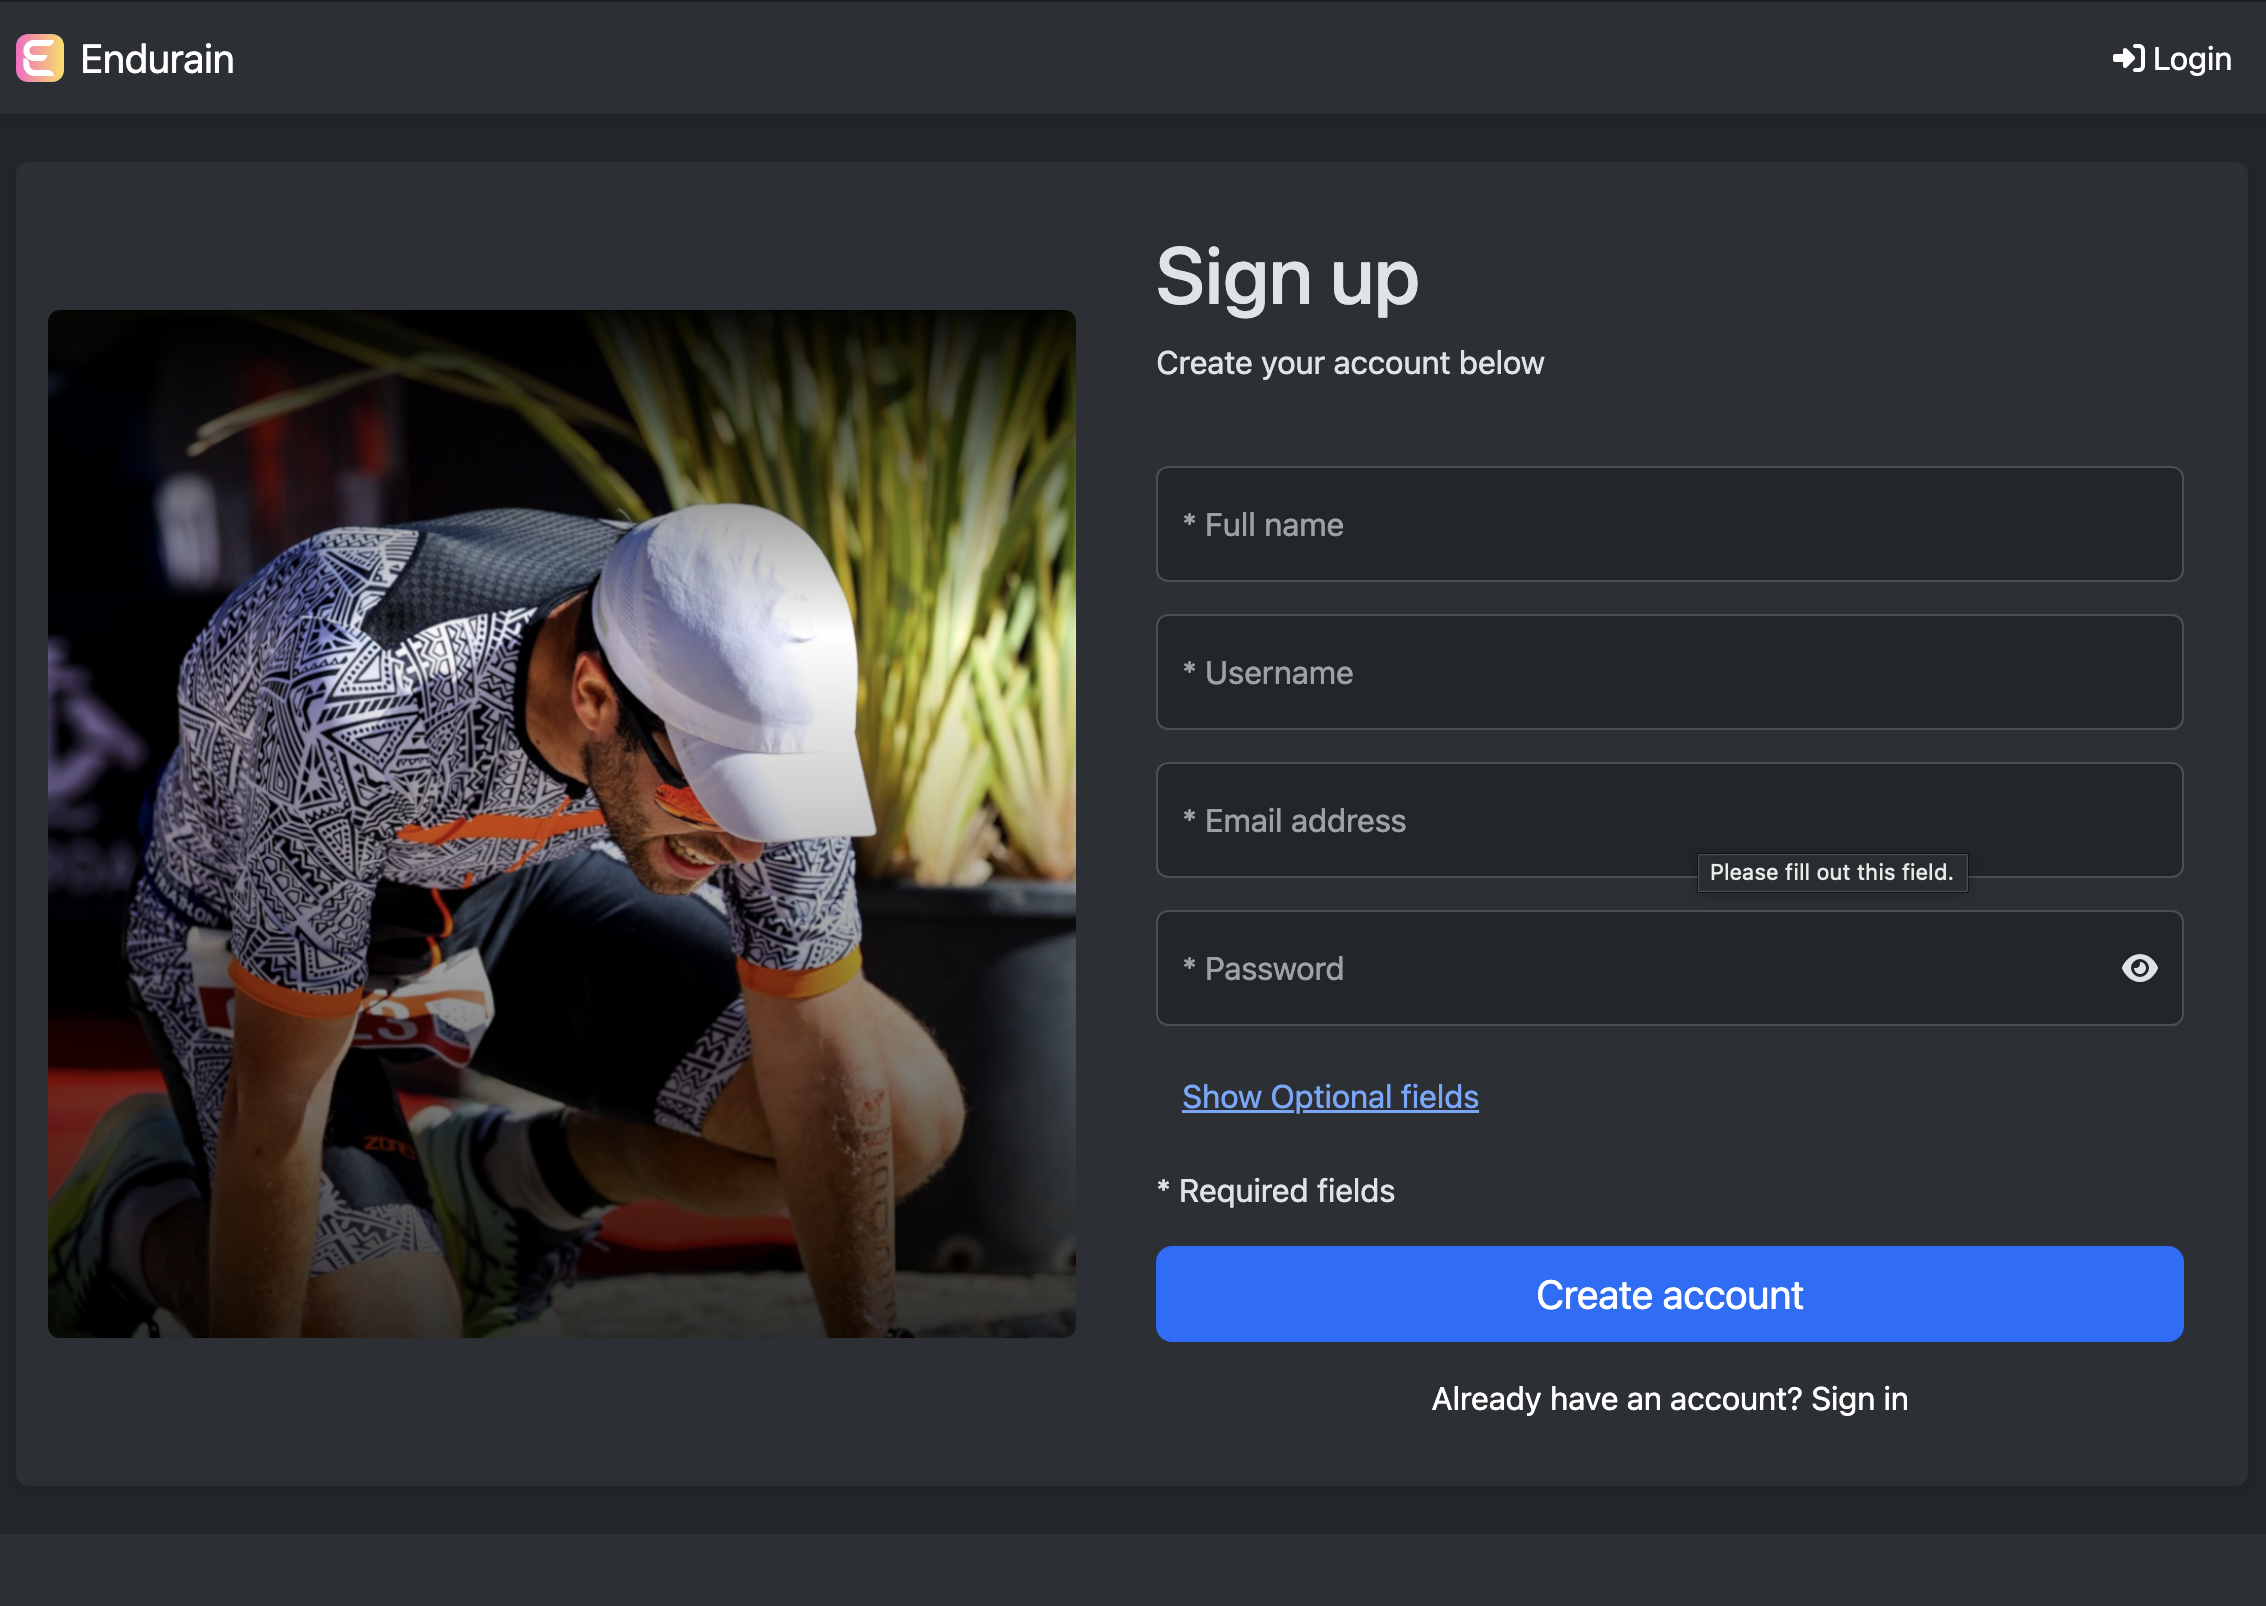
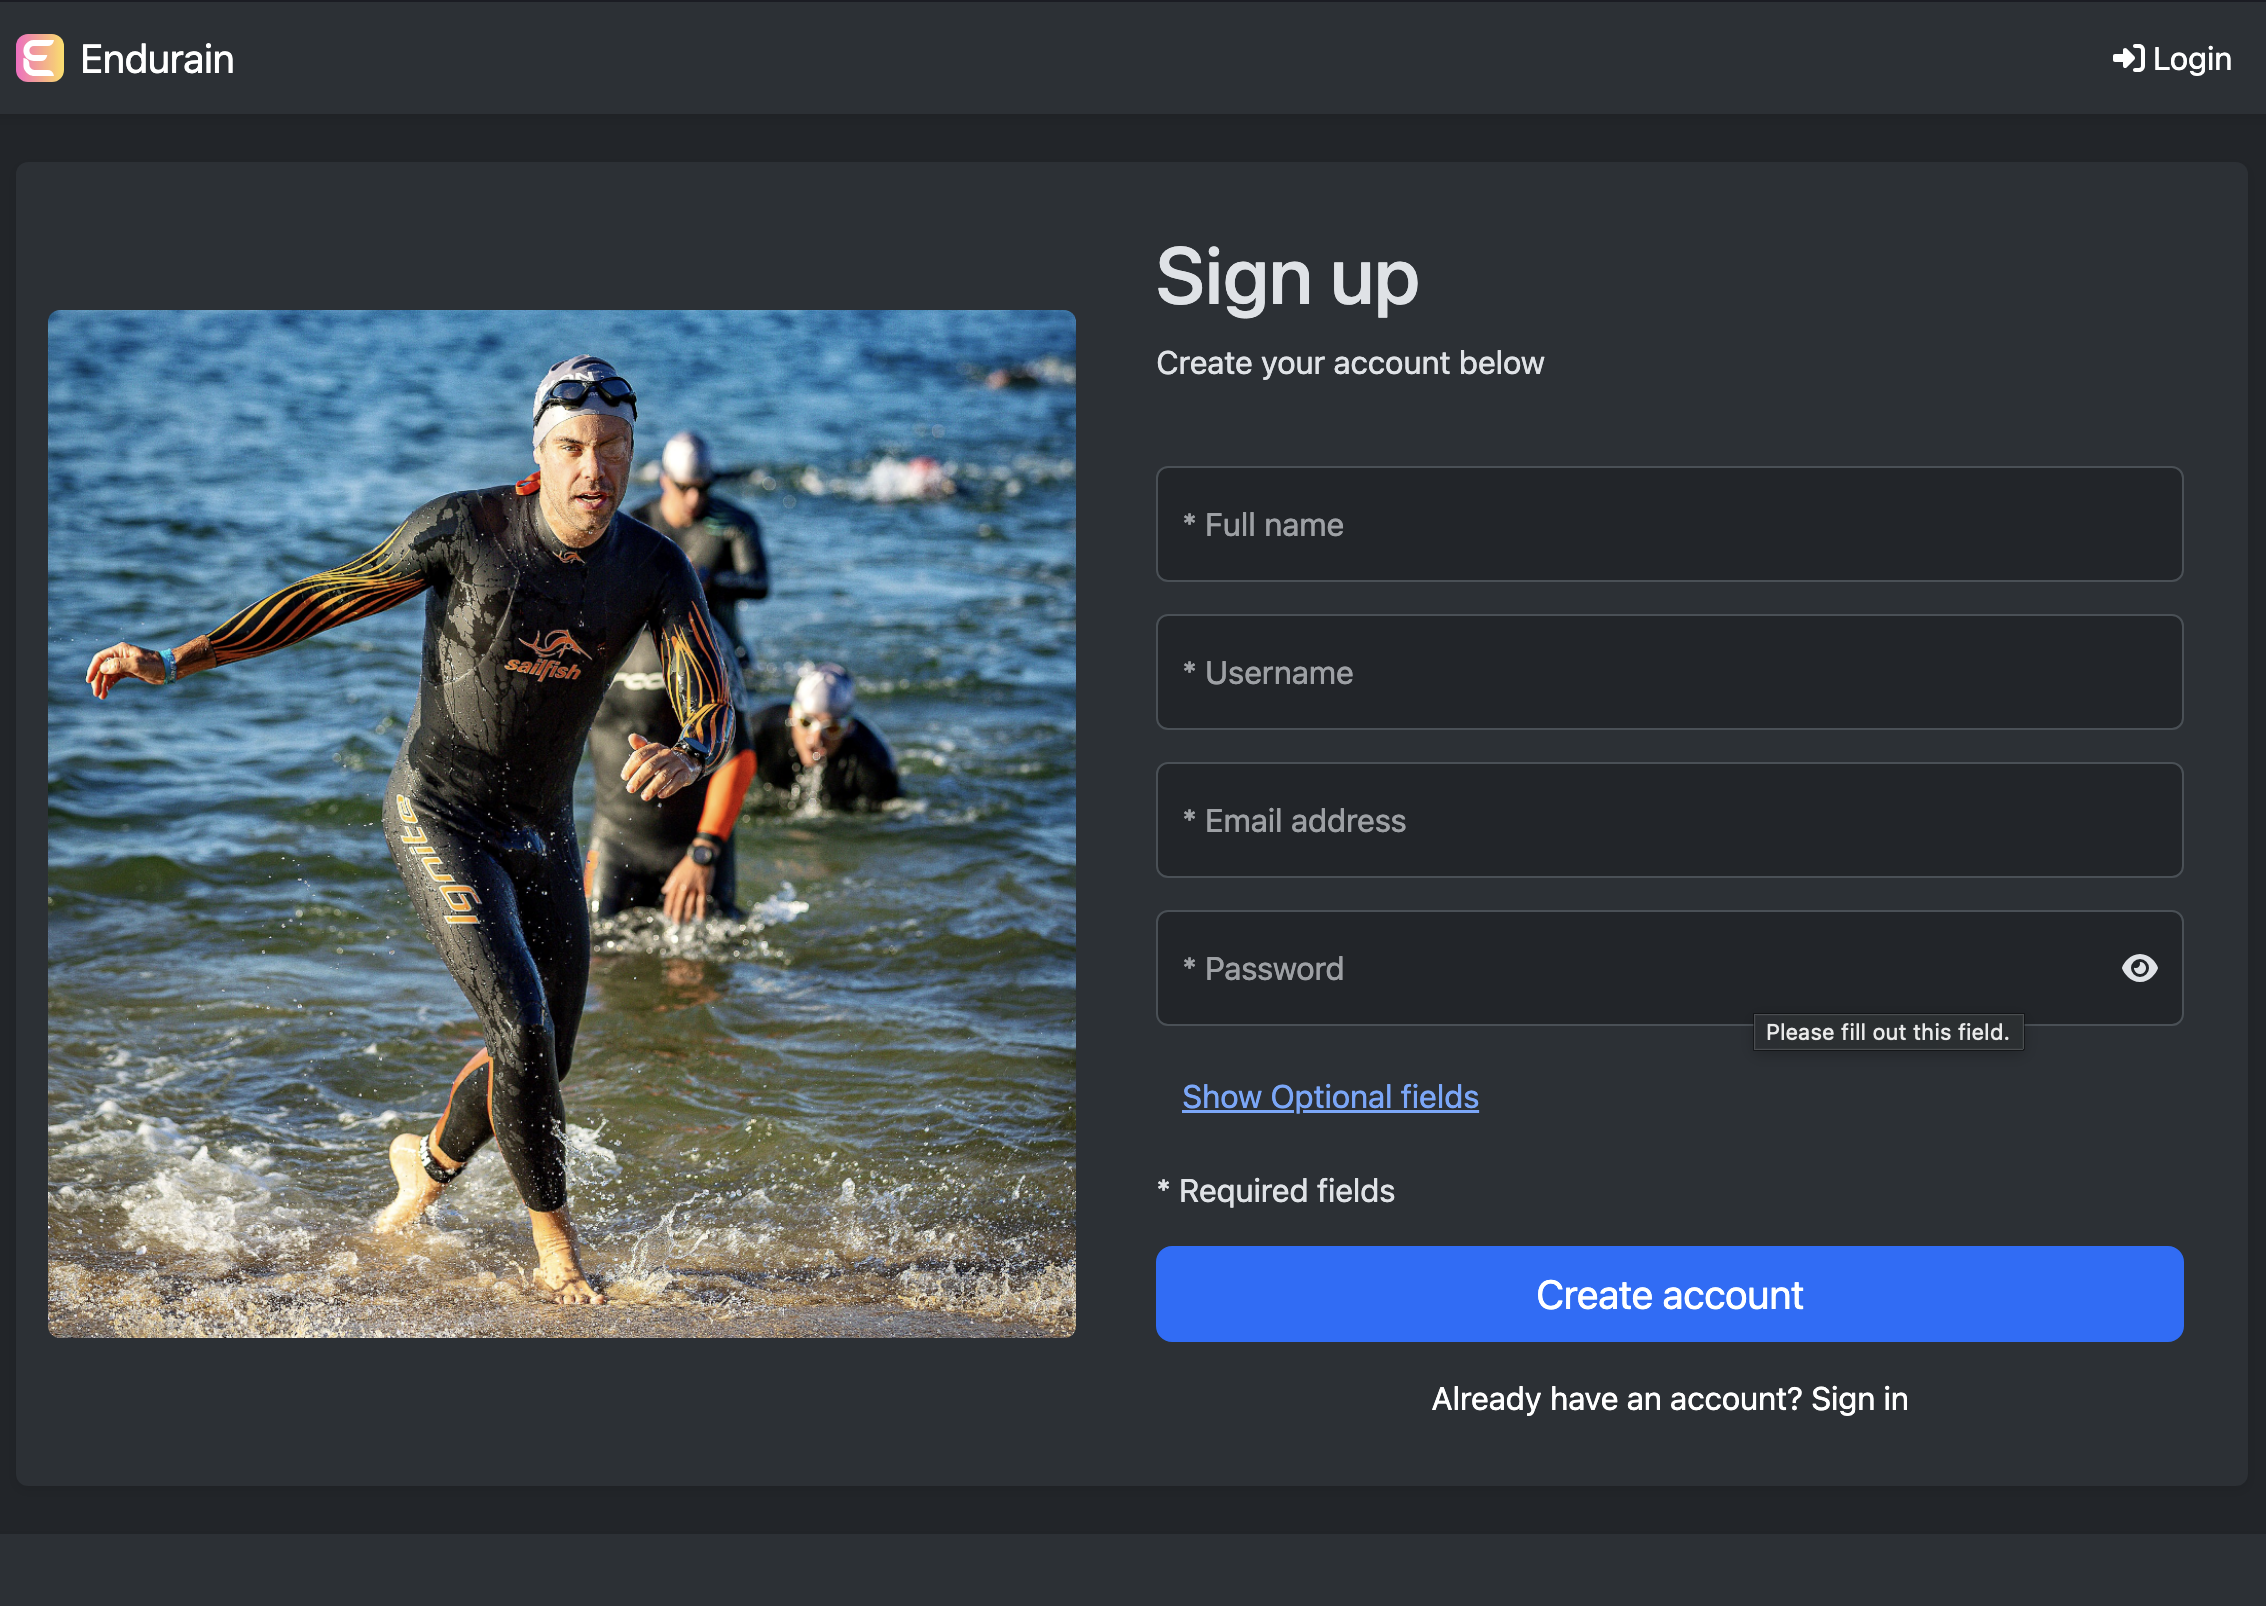
Update gallery screenshots and documentation
Replaced login, reset password modal, and sign-up screenshots in the gallery. Updated gallery.md to specify that images should be 1000x1000 pixels. Also updated the login asset in the frontend.

Changed region(s): [[0.0, 0.1868, 0.4943, 0.8406], [0.7723, 0.6227, 0.8959, 0.6538], [0.7414, 0.5293, 0.865, 0.5604]]

diff --git a/docs/gallery.md b/docs/gallery.md
@@ -1,7 +1,7 @@
 # Gallery
 
 ##### Login and sign-up page
-**Image can be changed**
+**Image can be changed. Image with a size of 1000x1000 pixels is expected.**
 ![Login](assets/gallery/screenshot_login.png)
 ![Password reset modal](assets/gallery/screenshot_reset_password_modal.png)
 ![Sign Up](assets/gallery/screenshot_sign_up.png)
